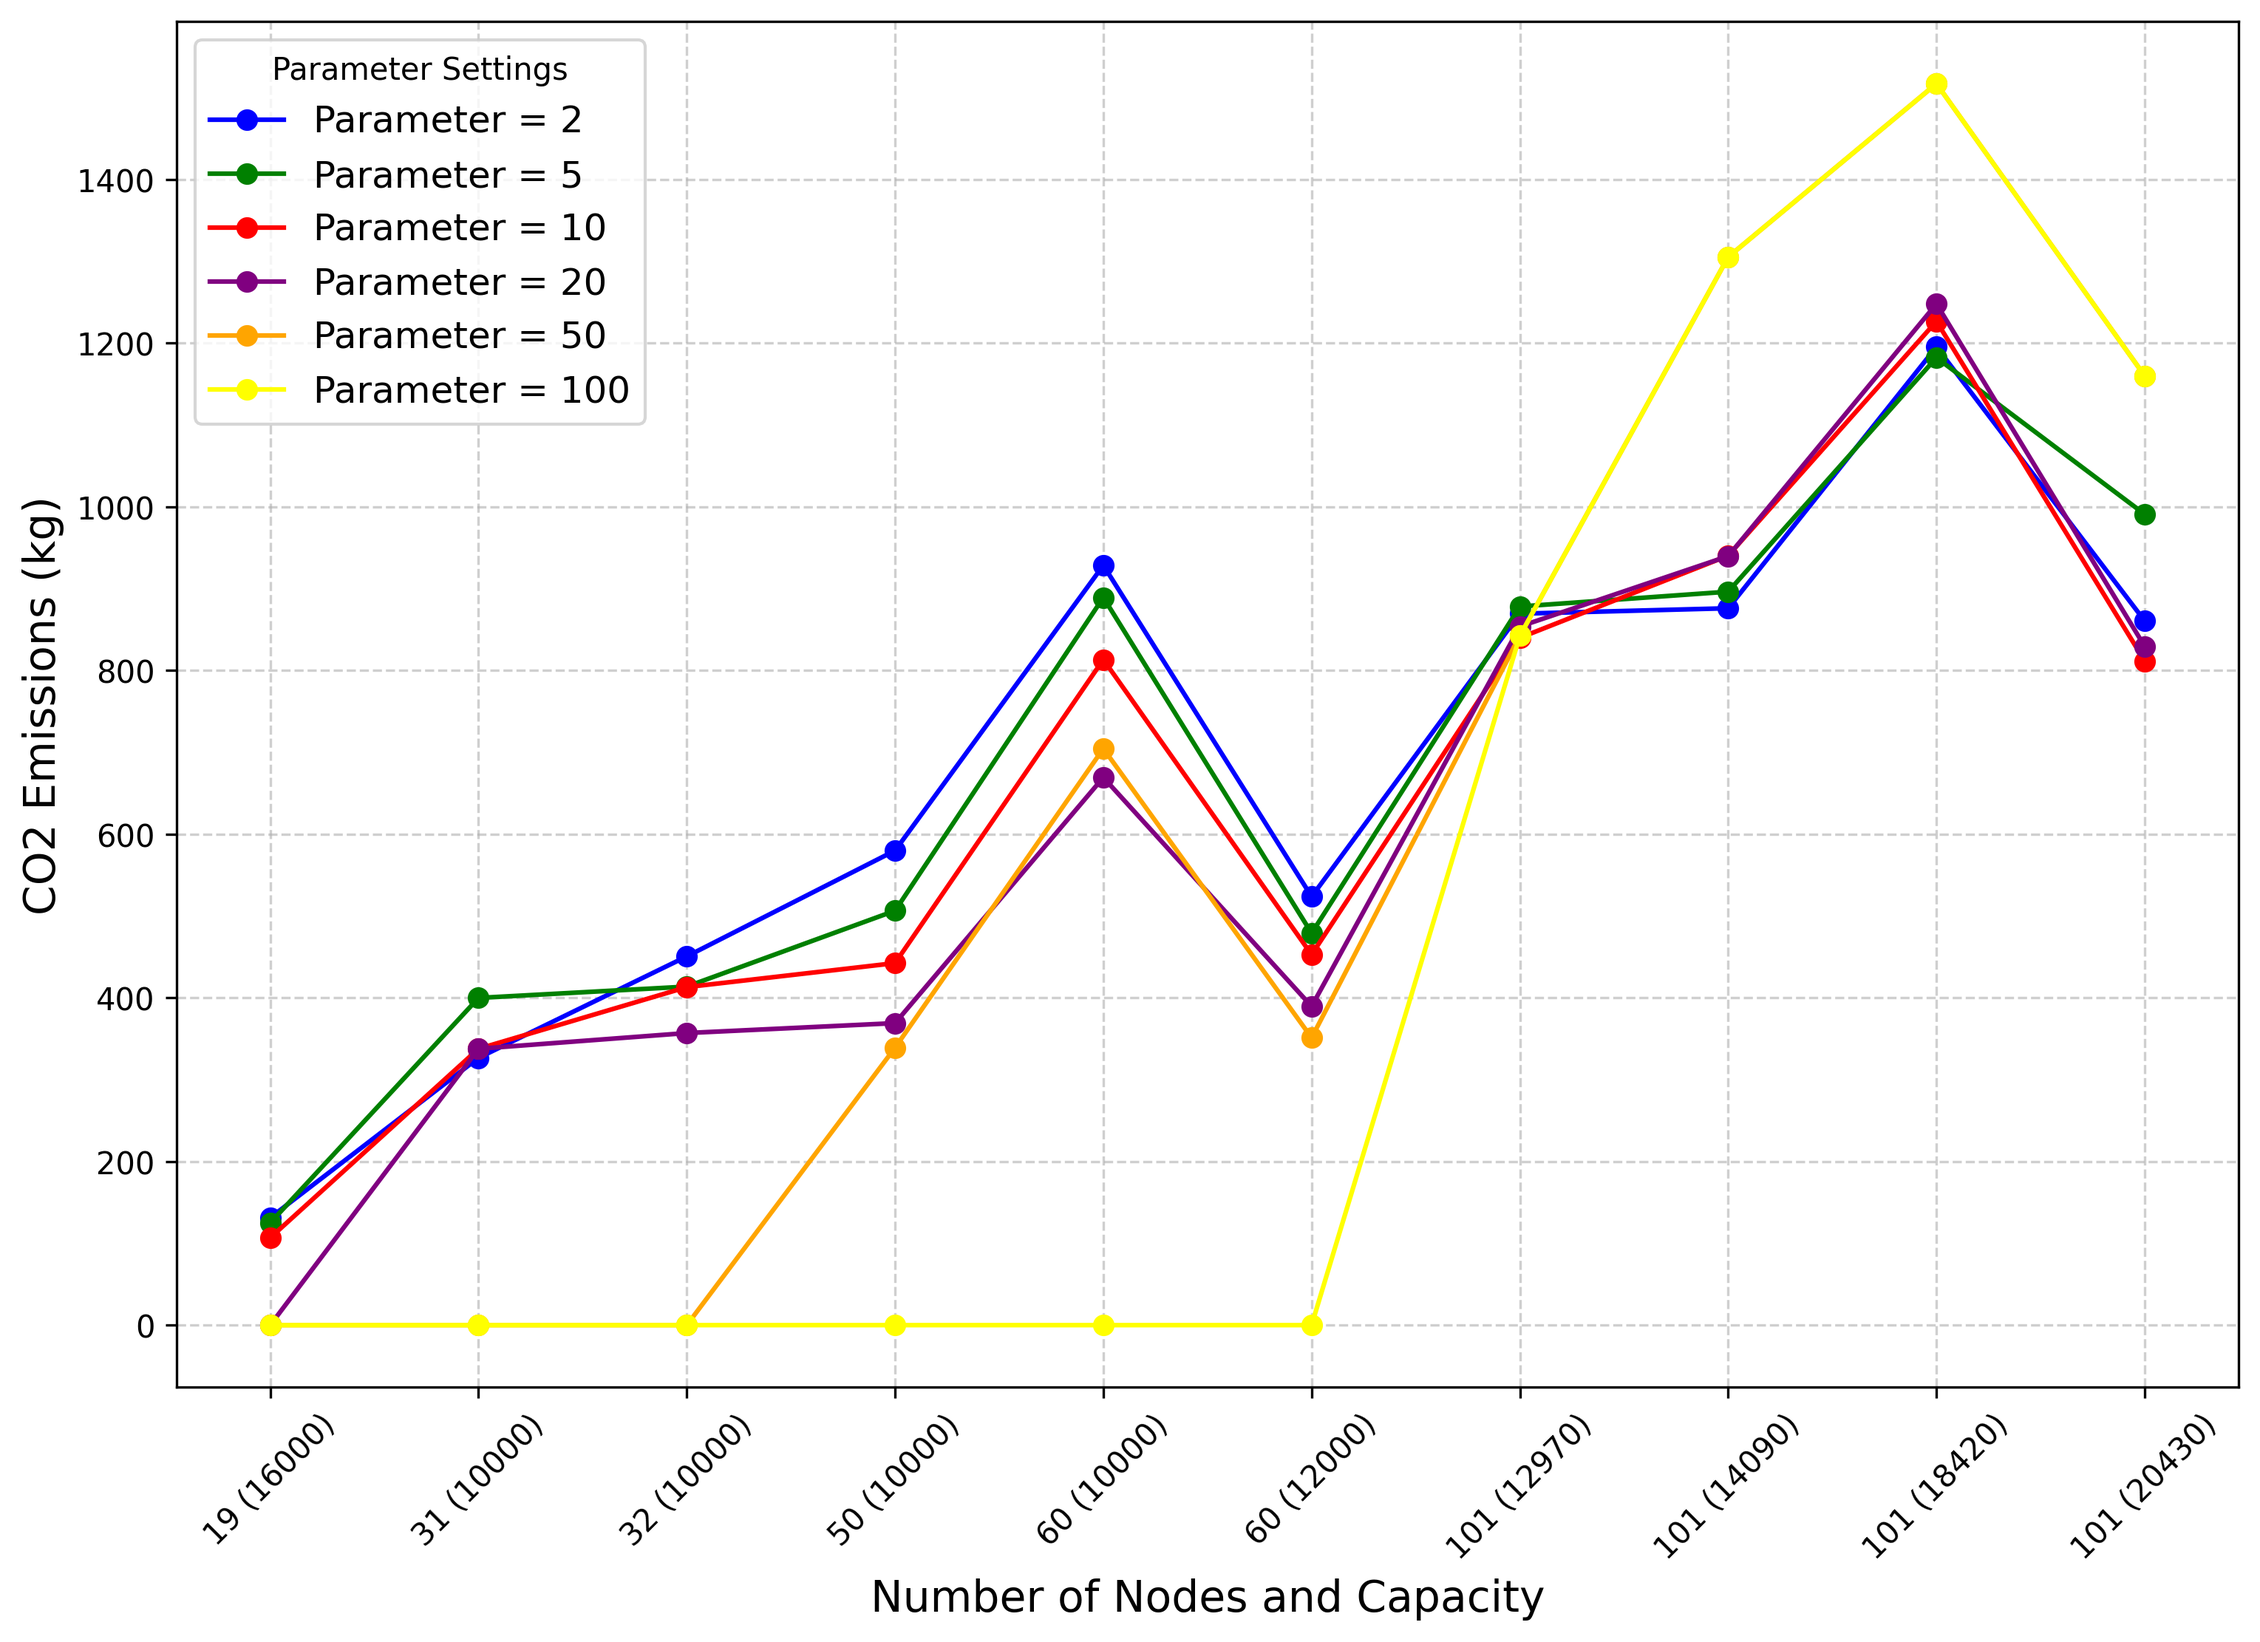
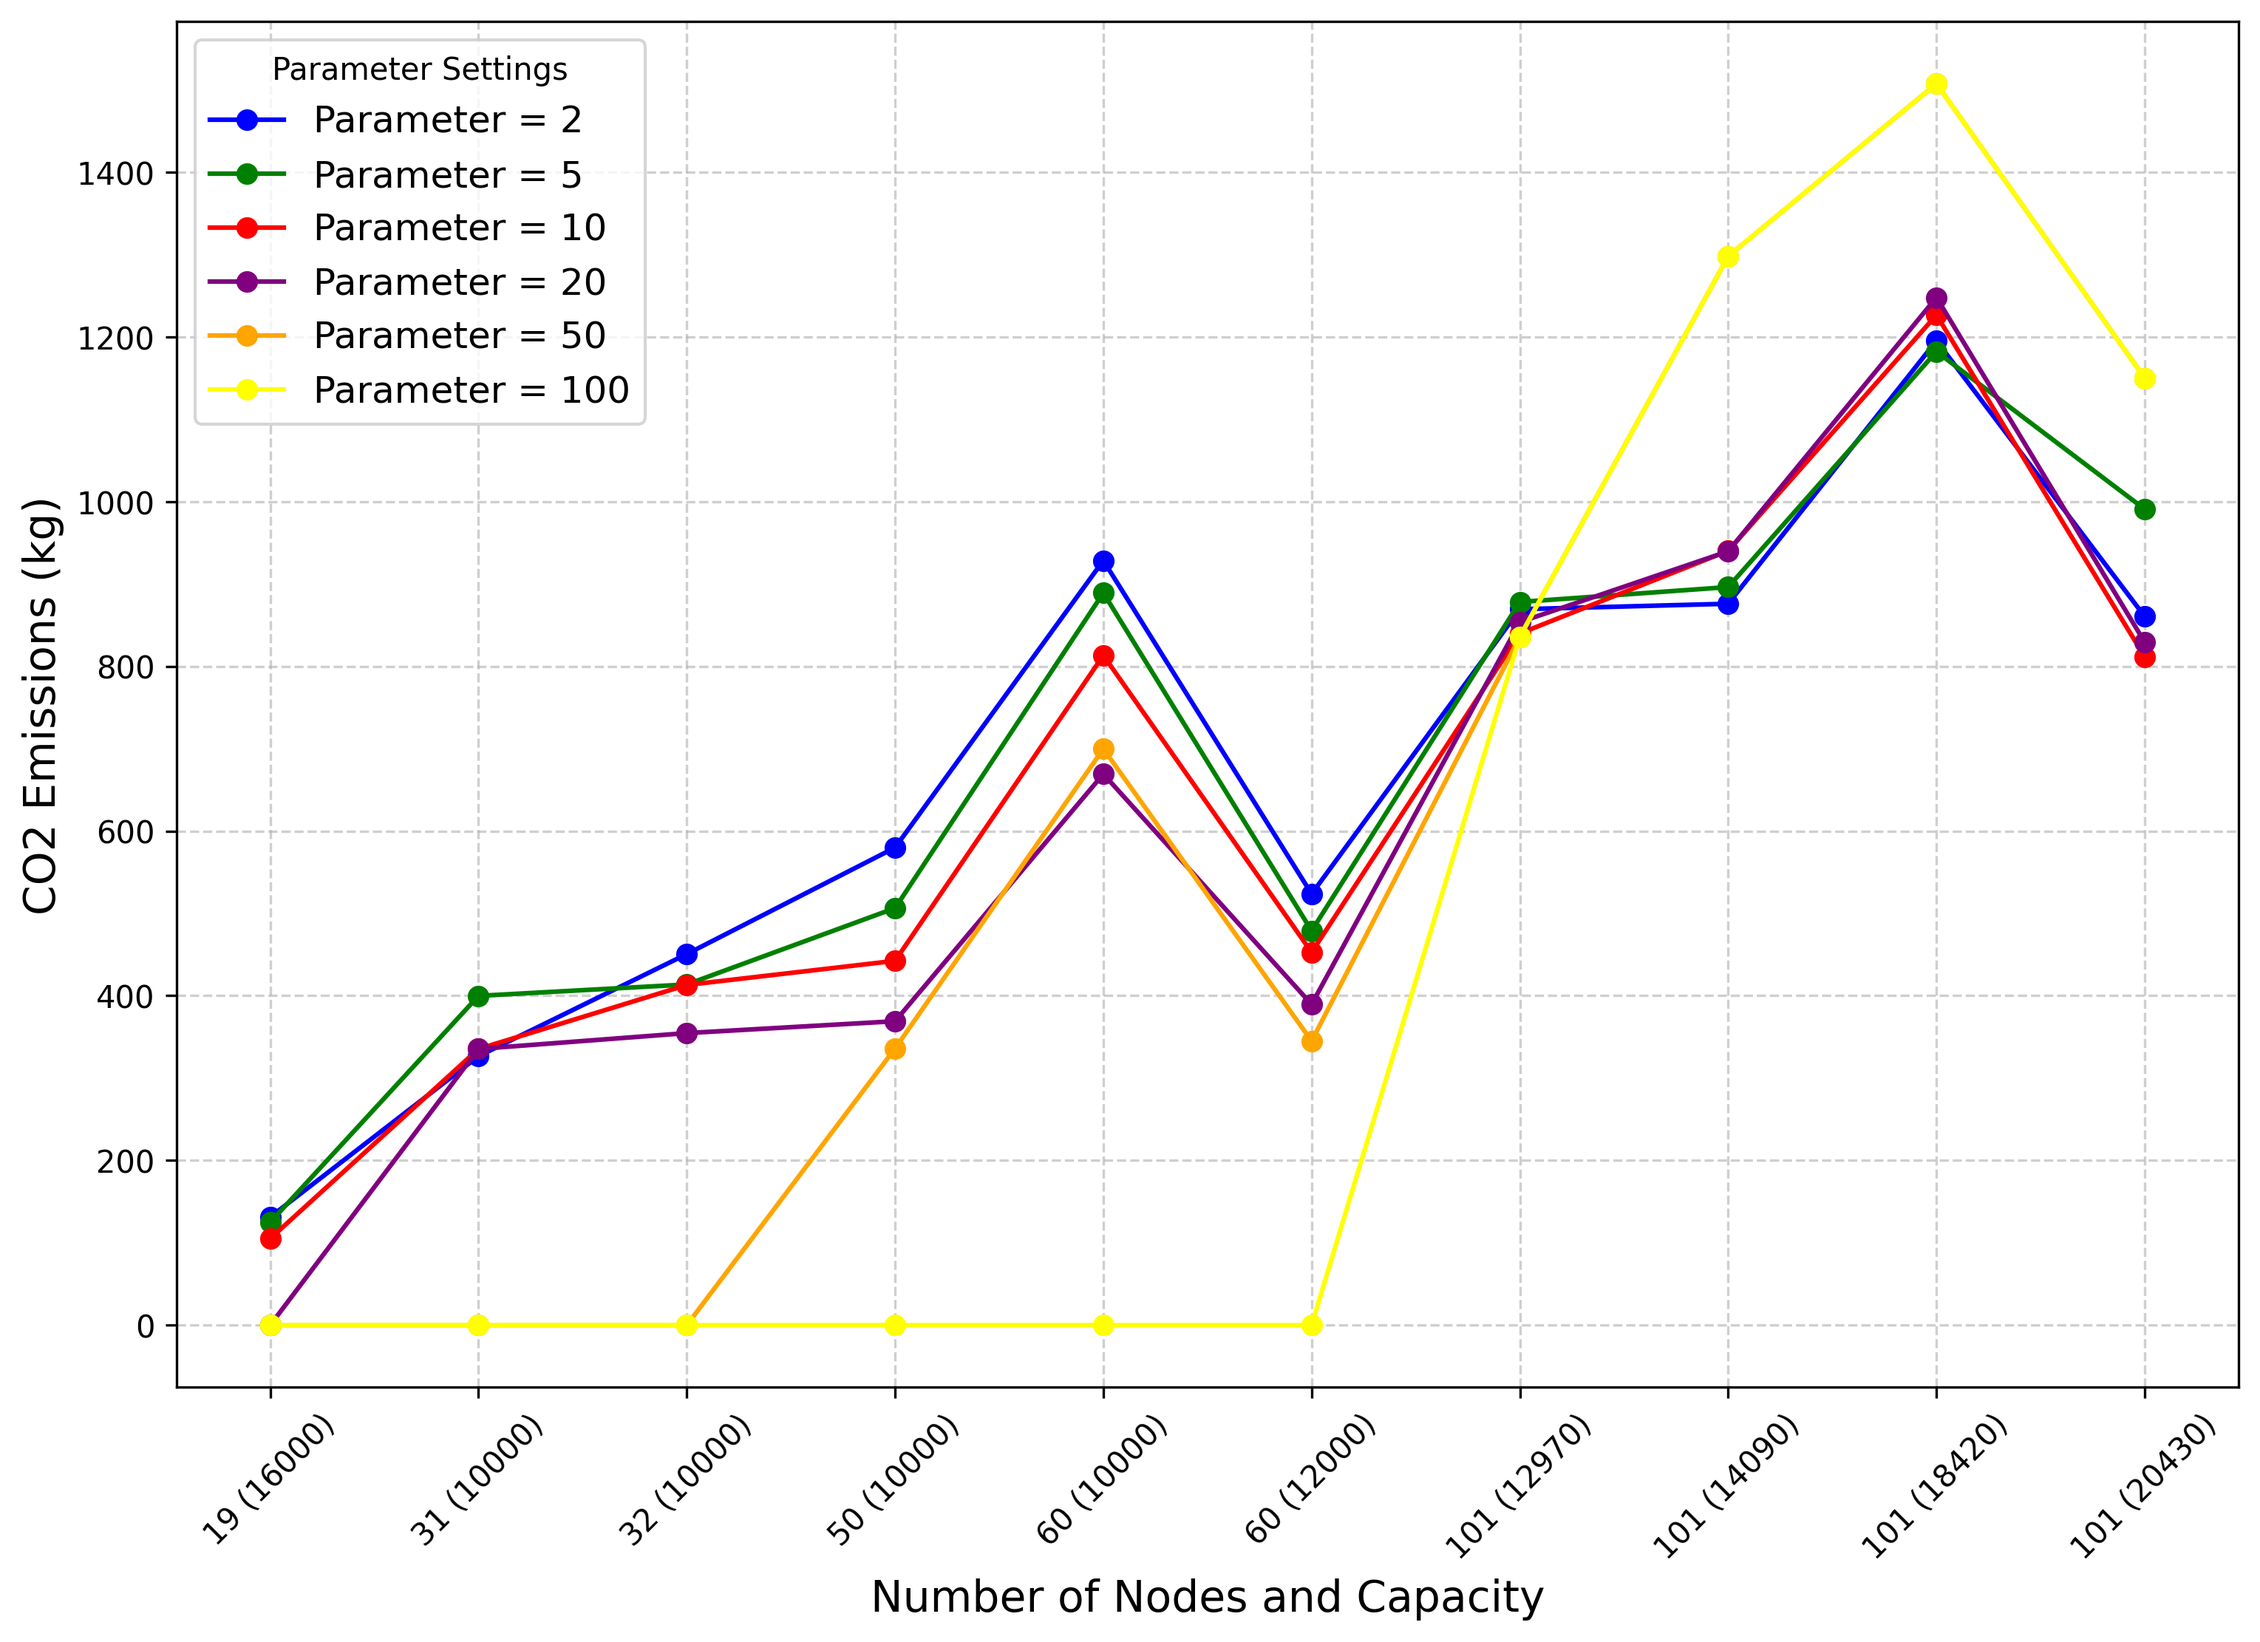
correct refrigerator boolean in locationrouting

diff --git a/Location_routing.py b/Location_routing.py
@@ -103,7 +103,6 @@ if __name__ == '__main__':
     empty_truck_weight = 30000  # 3t per truck
     empty_truck_co2 = 0.903  # 0.903kg per km
     emitted_value_only_car = 0.2  # kg per 1km, found in recherche
-    refrigerator_freezing_costs = 0.000042  # kg for 1kg
     costs_of_instances = []
     min_assigned_clients = [2, 5, 10, 20, 50, 100]
 
@@ -115,6 +114,7 @@ if __name__ == '__main__':
         print(instance + ": ")
         costs_for_parameter = []
         for min_clients in min_assigned_clients:
+            refrigerator_freezing_costs = 0.000042  # kg for 1kg
             dimension, capacity, indices, vertices, demands = collect_infos_from_instance(
                 instance)  # prepare instance# vertices without routes
             if min_clients > dimension:
@@ -143,6 +143,8 @@ if __name__ == '__main__':
             costs_of_cluster = []
             clusters = []
             hub_ids = [idx for idx, value in enumerate(open_candidates) if value == 1]
+            if len(hub_ids) == 1:
+                refrigerator_freezing_costs = None  # no installed refrigerators
             cluster_transport_list = []
             print("number of hubs: ", len(hub_ids))
             for hub in hub_ids:
@@ -169,13 +171,13 @@ if __name__ == '__main__':
                 costs_of_cluster.append(total_cost_of_cluster)
             # scenario 2_ routing through hubs
             coord_of_hubs = [candidates[idx] for idx in hub_ids]
-            route, tour_costs = nearest_neighbor(coord_of_hubs[0], coord_of_hubs, demands_of_cluster, capacity,
-            truck_co2,
-            empty_truck_co2, True)
-            #dist_matrix_2 = calculate_distance_matrix(coord_of_hubs)
-            #route, tour_costs = clarke_and_wright(dist_matrix_2, demands_of_cluster, capacity,
-             #                                     truck_co2,
-              #                                    empty_truck_co2, coord_of_hubs)
+            #route, tour_costs = nearest_neighbor(coord_of_hubs[0], coord_of_hubs, demands_of_cluster, capacity,
+            #truck_co2,
+            #empty_truck_co2, True)
+            dist_matrix_2 = calculate_distance_matrix(coord_of_hubs)
+            route, tour_costs = clarke_and_wright(dist_matrix_2, demands_of_cluster, capacity,
+                                                  truck_co2,
+                                                  empty_truck_co2, coord_of_hubs)
             summed_costs = 0
             for cluster_costs in costs_of_cluster:
                 summed_costs += cluster_costs
@@ -194,4 +196,4 @@ if __name__ == '__main__':
     print(emissions_by_version)
     parameter_settings = min_assigned_clients  # how many clients one hub serves at least
     plot_emissions_per_instance(dimension_list, capacity_list, emissions_by_version, parameter_settings,
-                                "results/emissions_3_refrcosts_assigned_clients_sweep.png")
+                                "results/emissions_3_refrcosts_assigned_clients_cw.png")
